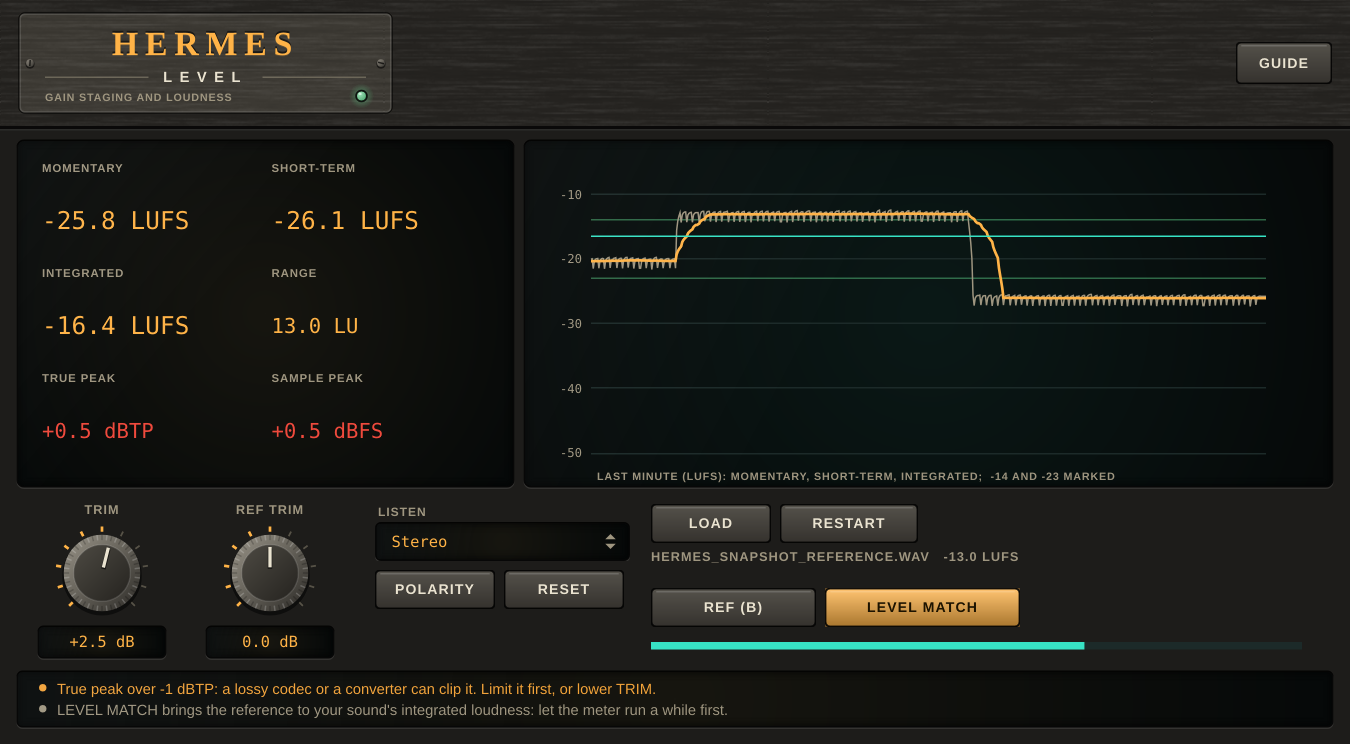
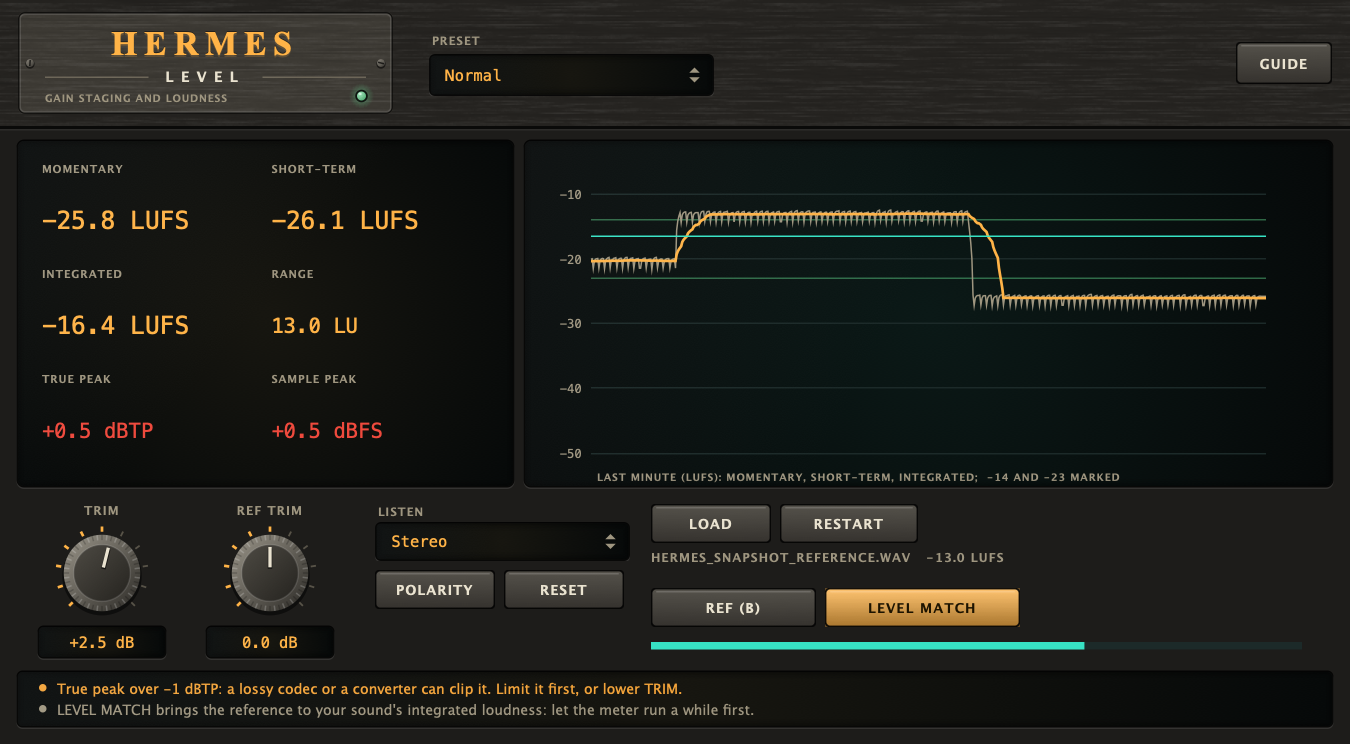
Hermes: eight listening presets
Normal, Mono Check, Side Only, Left Only, Right Only, Swap Check, Reference A/B, Reference As Is; TRIM, POLARITY and REF TRIM are kept. LEVEL MATCH is on by default, so the As Is preset switches it off. README and CLAUDE.md say it builds on macOS and passes auval (by hand).

diff --git a/plugins/hermes/Tests/UiCheck.cpp b/plugins/hermes/Tests/UiCheck.cpp
@@ -143,5 +143,51 @@ int main()
     }
     wav.deleteFile();
 
+    // Presets: each applies, has a name and a one-line purpose, the chosen one is kept with the session, and the box is in the header.
+    {
+        HermesProcessor q;
+        q.setPlayConfigDetails (2, 2, 48000.0, 512);
+        q.prepareToPlay (48000.0, 512);
+        bool all = q.getNumPrograms() == (int) presets().size() && q.getNumPrograms() >= 6;
+        for (int i = 0; i < q.getNumPrograms(); ++i)
+        {
+            q.setCurrentProgram (i);
+            const auto len = std::strlen (presets()[(size_t) i].purpose);
+            all = all && q.getProgramName (i).isNotEmpty() && q.getCurrentProgram() == i && len > 20 && len <= 140;
+        }
+        check (all, fmt ("all %d presets apply, have a name and a one-line purpose", q.getNumPrograms()));
+        const auto indexOf = [&] (const char* name)
+        {
+            for (int i = 0; i < q.getNumPrograms(); ++i)
+                if (q.getProgramName (i) == name)
+                    return i;
+            check (false, std::string ("a preset called ") + name);
+            return 0;
+        };
+        const auto raw = [&] (const juce::String& pid) { return q.apvts.getRawParameterValue (pid)->load(); };
+        setValue (q.apvts, id::trim, 3.0f);
+        q.setCurrentProgram (indexOf ("Mono Check"));
+        check ((int) raw (id::listen) == 1 && std::fabs (raw (id::trim) - 3.0f) < 0.01f, "Mono Check listens to the mono sum, and TRIM is kept");
+        q.setCurrentProgram (indexOf ("Reference A/B"));
+        check ((int) raw (id::listen) == 0 && raw (id::reference) > 0.5f && raw (id::levelMatch) > 0.5f, "Reference A/B: the reference on and level matched, and LISTEN back on Stereo");
+        q.setCurrentProgram (0);
+        check ((int) raw (id::listen) == 0 && raw (id::reference) < 0.5f && raw (id::levelMatch) > 0.5f && std::fabs (raw (id::trim) - 3.0f) < 0.01f, "Normal: Stereo, the reference off, LEVEL MATCH back on (its default), TRIM kept");
+        q.setCurrentProgram (indexOf ("Reference As Is"));
+        check (raw (id::reference) > 0.5f && raw (id::levelMatch) < 0.5f, "Reference As Is: the reference at its own level (LEVEL MATCH off)");
+        const int chosen = indexOf ("Side Only");
+        q.setCurrentProgram (chosen);
+        check ((int) raw (id::listen) == 4, "Side Only listens to the sides");
+        juce::MemoryBlock saved;
+        q.getStateInformation (saved);
+        HermesProcessor other;
+        other.setStateInformation (saved.getData(), (int) saved.getSize());
+        check (other.getCurrentProgram() == chosen, "the chosen preset is saved with the session");
+        std::unique_ptr<juce::AudioProcessorEditor> holder (q.createEditor());
+        auto& editor = ui::innerOf<HermesEditor> (*holder);
+        editor.setVisible (true);
+        check (editor.presetBox.getNumItems() == q.getNumPrograms() && editor.presetBox.getSelectedId() == chosen + 1, "the editor's preset box lists the presets and shows the current one");
+        check (editor.presetBox.getRight() < editor.getWidth() && ! editor.presetBox.getBounds().intersects (editor.guideButton.getBounds()), "the preset box fits the header beside the GUIDE button");
+    }
+
     return test::finish ("HermesUiCheck");
 }

diff --git a/plugins/hermes/Source/PluginEditor.cpp b/plugins/hermes/Source/PluginEditor.cpp
@@ -31,6 +31,7 @@ HermesEditor::HermesEditor (HermesProcessor& p)
       polarity (p.apvts, id::polarity, "POLARITY", "Inverts both channels. It sounds the same alone and different against other tracks."),
       reference (p.apvts, id::reference, "REF (B)", "Hear the reference instead of your sound (A). The switch is a short crossfade, and the reference plays on while you listen to A."),
       levelMatch (p.apvts, id::levelMatch, "LEVEL MATCH", "Brings the reference to the integrated loudness of your sound, so you compare the tone and not the level. Let the meter run first: until it has read a few seconds there is nothing to match."),
+      presetBox (p, presets(), "LISTEN and the reference are set; TRIM, POLARITY and REF TRIM are kept."),
       proc (p)
 {
     setLookAndFeel (&look);
@@ -50,7 +51,7 @@ HermesEditor::HermesEditor (HermesProcessor& p)
     };
     restartButton.onClick = [this] { proc.engine.restartReference(); };
     resetButton.onClick = [this] { proc.engine.resetMeters(); };
-    for (auto* c : std::initializer_list<juce::Component*> { &trim, &referenceTrim, &listen, &polarity, &reference, &levelMatch, &loadButton, &restartButton, &resetButton, &guideButton })
+    for (auto* c : std::initializer_list<juce::Component*> { &trim, &referenceTrim, &listen, &polarity, &reference, &levelMatch, &loadButton, &restartButton, &resetButton, &presetBox, &guideButton })
         addAndMakeVisible (*c);
     startTimerHz (kTimerHz);
     setSize (kWidth, headerHeight + 10 + displayHeight + 8 + cellHeight + 8 + ui::kNoteStripHeight + 12);
@@ -70,6 +71,10 @@ void HermesEditor::resized()
     auto header = bounds.removeFromTop (headerHeight).withTrimmedTop (8).withTrimmedBottom (8);
     nameplate = header.removeFromLeft (250);
     guideButton.setBounds (header.removeFromRight (64).withSizeKeepingCentre (64, 28));
+    header.removeFromLeft (24);
+    auto presetRow = header.withTrimmedTop (28).withHeight (28);
+    presetLabel = { presetRow.getX() + 2, presetRow.getY() - 15, 120, 12 };
+    presetBox.setBounds (presetRow.removeFromLeft (190));
 
     bounds.removeFromTop (10);
     auto display = bounds.removeFromTop (displayHeight);
@@ -121,6 +126,7 @@ void HermesEditor::paint (juce::Graphics& g)
     g.fillAll (colours::background);
     hw::drawHeaderPlate (g, getLocalBounds().removeFromTop (headerHeight).toFloat());
     hw::drawNameplate (g, nameplate, gui::kProjectWord, gui::kPluginWord, "Gain staging and loudness", momentary > gui::kNothing, 25.0f);
+    hw::drawLabel (g, "Preset", presetLabel, juce::Justification::left, colours::dim, 9.0f);
     hw::drawLabel (g, "Listen", listenLabel, juce::Justification::left, colours::dim, 9.0f);
     ui::drawNoteStrip (g, noteStrip, adviceFor (adviceInput()));
 
@@ -222,5 +228,6 @@ void HermesEditor::timerCallback()
     momentaryHistory.back() = momentary;
     shortTermHistory.back() = shortTerm;
     ++ticks;
+    presetBox.sync();
     repaint();
 }

diff --git a/plugins/hermes/Source/Presets.h b/plugins/hermes/Source/Presets.h
@@ -1,0 +1,34 @@
+// SPDX-License-Identifier: AGPL-3.0-or-later
+// Copyright (C) 2026 The Pantheon authors
+
+#pragma once
+
+#include "Parameters.h"
+#include <pantheon/ui/Presets.h>
+
+// Listening checks and the reference, ready to switch to. A preset sets LISTEN, REF and LEVEL MATCH; TRIM, POLARITY and REF TRIM are kept (they are the level of your
+// sound, not what you listen to). The meters always read the whole sound. LISTEN and REF are saved with the session: choose Normal before you bounce.
+namespace hermes
+{
+inline const std::vector<ui::Preset>& presets()
+{
+    // LISTEN is a choice: 0 Stereo, 1 Mono, 2 Left, 3 Right, 4 Side, 5 Swap.
+    static const std::vector<ui::Preset> list
+    {
+        { "Normal", {}, "Your sound as it is: LISTEN on Stereo, the reference off, LEVEL MATCH on. Choose it before you bounce." },
+        { "Mono Check", { { id::listen, 1.0f } },
+          "What a mono speaker, a phone or a club system plays. A lead or a bass that fades here has a phase problem. The meters read the whole sound." },
+        { "Side Only", { { id::listen, 4.0f } },
+          "Only what differs between the channels: reverb, widening, stereo effects. If it is loud, the mix is wide or partly out of phase." },
+        { "Left Only", { { id::listen, 2.0f } }, "The left channel in both ears: what is hard-panned, and whether the two channels are alike." },
+        { "Right Only", { { id::listen, 3.0f } }, "The right channel in both ears: what is hard-panned, and whether the two channels are alike." },
+        { "Swap Check", { { id::listen, 5.0f } }, "Left and right exchanged: a mix that sounds wrong swapped leans to one side. Nothing else changes." },
+        { "Reference A/B", { { id::reference, 1.0f }, { id::levelMatch, 1.0f } },
+          "Hears the loaded reference instead of your sound, at your sound's loudness, so you compare the tone and not the level. LOAD a track first." },
+        { "Reference As Is", { { id::reference, 1.0f }, { id::levelMatch, 0.0f } }, "Hears the loaded reference at its own level (REF TRIM adds to it). Louder usually sounds better: compare with care." },
+    };
+    return list;
+}
+
+inline bool keepsParameter (const juce::String& pid) { return pid == id::trim || pid == id::polarity || pid == id::referenceTrim; }
+} // namespace hermes

diff --git a/plugins/hermes/Source/PluginProcessor.h b/plugins/hermes/Source/PluginProcessor.h
@@ -4,6 +4,7 @@
 #pragma once
 
 #include "Parameters.h"
+#include "Presets.h"
 #include <juce_audio_formats/juce_audio_formats.h>
 #include <juce_audio_processors/juce_audio_processors.h>
 
@@ -26,10 +27,10 @@ public:
     bool producesMidi() const override { return false; }
     double getTailLengthSeconds() const override { return 0.0; }
 
-    int getNumPrograms() override { return 1; }
-    int getCurrentProgram() override { return 0; }
-    void setCurrentProgram (int) override {}
-    const juce::String getProgramName (int) override { return "Default"; }
+    int getNumPrograms() override { return programs.count(); }
+    int getCurrentProgram() override { return programs.current(); }
+    void setCurrentProgram (int index) override { programs.set (index); }
+    const juce::String getProgramName (int index) override { return programs.name (index); }
     void changeProgramName (int, const juce::String&) override {}
 
     void getStateInformation (juce::MemoryBlock&) override;
@@ -37,6 +38,7 @@ public:
 
     hermes::Engine engine;
     juce::AudioProcessorValueTreeState apvts;
+    ui::Programs programs { apvts, hermes::presets(), hermes::keepsParameter }; // after apvts
 
     // On the message thread. Decodes the whole file (at most kMaxReferenceMinutes), brings it to the session's sample rate, measures its loudness and hands it to the engine.
     // Returns an empty string on success, else why not.

diff --git a/plugins/hermes/Source/PluginEditor.h b/plugins/hermes/Source/PluginEditor.h
@@ -26,6 +26,7 @@ public:
     ui::Choice listen;
     ui::Toggle polarity, reference, levelMatch;
     juce::TextButton loadButton { "LOAD" }, restartButton { "RESTART" }, resetButton { "RESET" };
+    ui::PresetBox presetBox;
     ui::GuideButton guideButton { hermes::guideTitle(), hermes::guideText() };
     juce::TextButton& guide() noexcept { return guideButton; }
     std::vector<ui::Note> notes() const { return hermes::adviceFor (adviceInput()); } // what the strip under the controls says, for the checks
@@ -41,7 +42,7 @@ private:
     HardwareLookAndFeel look;
     juce::TooltipWindow tooltips { this, 600 };
     std::unique_ptr<juce::FileChooser> chooser;
-    juce::Rectangle<int> nameplate, readouts, graph, listenLabel, referenceArea, noteStrip;
+    juce::Rectangle<int> nameplate, presetLabel, readouts, graph, listenLabel, referenceArea, noteStrip;
     std::array<float, kHistory> momentaryHistory, shortTermHistory;
     float momentary = -200.0f, shortTerm = -200.0f, integrated = -200.0f, range = 0.0f, truePeak = -200.0f, samplePeak = -200.0f, position = 0.0f;
     int ticks = 0;

diff --git a/plugins/hermes/Source/PluginProcessor.cpp b/plugins/hermes/Source/PluginProcessor.cpp
@@ -54,6 +54,7 @@ void HermesProcessor::processBlock (juce::AudioBuffer<float>& buffer, juce::Midi
 
 void HermesProcessor::getStateInformation (juce::MemoryBlock& dest)
 {
+    programs.saveTo (apvts.state);
     auto state = apvts.copyState();
     state.setProperty ("refPath", referencePath, nullptr);
     if (auto xml = state.createXml())
@@ -68,6 +69,7 @@ void HermesProcessor::setStateInformation (const void* data, int size)
             auto tree = juce::ValueTree::fromXml (*xml);
             const auto path = tree.getProperty ("refPath").toString();
             apvts.replaceState (tree);
+            programs.loadFrom (apvts.state);
             if (path.isNotEmpty() && path != referencePath && juce::File (path).existsAsFile())
                 juce::MessageManager::callAsync ([weak = juce::WeakReference<HermesProcessor> (this), path] { if (weak != nullptr) weak->loadReference (juce::File (path)); });
         }

diff --git a/plugins/hermes/CLAUDE.md b/plugins/hermes/CLAUDE.md
@@ -12,7 +12,7 @@ cmake --build build --target HermesUiCheck && ./build/HermesUiCheck_artefacts/Re
 cmake --build build --target HermesSnapshot && ./build/HermesSnapshot_artefacts/Release/HermesSnapshot docs/screenshot.png
 ```
 
-- Building the plugin targets does **not** install them (`HERMES_INSTALL_AFTER_BUILD`, off by default).
+- Building the plugin targets does **not** install them (`HERMES_INSTALL_AFTER_BUILD`, off by default; a build folder configured with it ON does: check the cache). `scripts/build.sh hermes` is the way to build and check (see the repository's CLAUDE.md).
 - `HermesTests`, `UiCheck` and `Snapshot` are `EXCLUDE_FROM_ALL`; build them by name. `Source/DSP` has no JUCE in it, so the DSP tests also compile with
   `g++ -std=c++20 -O2 -I../../shared/dsp/include -ISource -ITests Tests/Tests.cpp` (a quick loop); run them also with `-O3 -march=native` and with `-O3 -ffast-math`, each on its own.
 - Definition of done for a DSP change: `HermesTests` passes **and** the numbers the README quotes still match its output.
@@ -24,6 +24,7 @@ cmake --build build --target HermesSnapshot && ./build/HermesSnapshot_artefacts/
 Source/DSP/Loudness.h  no GUI, no JUCE: K-weighting for any rate, LoudnessMeter (momentary, short-term, integrated, range from fixed histograms)
 Source/DSP/Engine.h    the trim, the listening modes, the meters, the reference (Reference, the A/B crossfade, the level match); covered by Tests/Tests.cpp
 ../../shared/dsp/      TruePeak.h (`pdsp::TruePeakReader`: the 8x, 64-tap reader; shared with Aegis, so run AegisTests too when you change it)
+Source/Presets.h       the presets (settings, names, one-line purposes); the mechanism is `shared/ui/.../Presets.h`
 Source/Advice.h        the notes of the strip under the controls and the GUIDE text; plain C++
 Source/Parameters.h    parameter layout, readParams()                       <- the single source of truth for parameters
 Source/Plugin*.{h,cpp}, Source/UI/   JUCE wrapper (it also decodes the reference file) and editor (the look is `shared/ui`)
@@ -55,6 +56,9 @@ is a flag the audio thread takes (`restart`), never a write to `position` from a
 `prepareToPlay` loads it again if the sample rate changed.
 
 **Real time.** `Engine::process` allocates and locks nothing (the histograms are fixed arrays). **Bad samples:** NaN and infinity are replaced by 0 on the way in.
+
+**Presets** are `ui::Preset`s in `Source/Presets.h` (the settings as real values, a name, a one-line purpose of at most 140 characters); the processor's `ui::Programs` applies them (every parameter that the plugin's `keepsParameter` does not claim goes back to its default first, so a preset does not inherit the last one) and keeps the chosen index in the session's state
+(`program`); the editor's `ui::PresetBox` lists them and `sync()`s with the host. A new parameter needs thinking about in each preset: it goes back to its default unless the preset lists it. UiCheck pins that every preset applies, what one specific preset sets, what is kept, and that the box fits the header.
 
 **Parameters.** Ids (`hermes::id`) are stored in sessions and automation: never rename or remove one. All are `ParameterID` version 1; a new one needs a higher version, an entry in `readParams()` and a place in the editor.
 The order of `listenNames` is the order of `Listen`.

diff --git a/plugins/hermes/README.md b/plugins/hermes/README.md
@@ -16,6 +16,7 @@ It changes nothing but the level and what you listen to.
 | **Listen** | *Stereo* (as it is), *Mono* (`(L + R) / 2` in both: what a mono speaker plays), *Left* and *Right* (one channel in both), *Side* (`(L - R) / 2` in both: what differs between the channels), *Swap*. A check: the meters still read the whole sound. |
 | **Meters** | **Momentary** (400 ms) and **short-term** (3 s) loudness in LUFS; **integrated** loudness (gated, since RESET); **range** in LU; the **true peak** in dBTP and the sample peak in dBFS; and a graph of the last minute. |
 | **Reference** | **LOAD** a track (WAV, AIFF, FLAC, OGG, MP3 where the system can read it; at most 10 minutes, kept in memory), **REF (B)** to hear it instead of your sound (A) with a 20 ms crossfade, **LEVEL MATCH** to bring it to the integrated loudness of your sound, **REF TRIM** (+-12 dB) to add to that, **RESTART**. It loops, and plays on while you listen to A. The file's path is kept in the session. |
+| **Presets** | Eight listening setups (Normal, Mono Check, Side Only, Left Only, Right Only, Swap Check, Reference A/B, Reference As Is). A preset sets LISTEN, REF and LEVEL MATCH; TRIM, POLARITY and REF TRIM are kept. LISTEN and REF are saved with the session: choose Normal before a bounce. |
 
 ## How it works
 
@@ -49,7 +50,7 @@ It changes nothing but the level and what you listen to.
 - **LISTEN and REF are parameters and are saved with the session**: set LISTEN back to Stereo and REF off before you bounce (a note reminds you).
 - **A reference is kept whole in memory** (at most 10 minutes; about 230 MB at 48 kHz). It is brought to the sample rate the session had when it was loaded; if the session's rate changes it is made again from the file.
 - **It reads the file again from its path** when a session is opened: if the file has moved, the session opens without a reference.
-- It has not been built on macOS or run through `auval`, and it has no `HostCheck` (see "Not yet in line" in the repository's [CLAUDE.md](../../CLAUDE.md)).
+- It builds on macOS (VST3 and AU, run by hand on 2026-11-13) and `auval -v` passes for the AU; it is not in a macOS CI job, and it has no `HostCheck` (see "Not yet in line" in the repository's [CLAUDE.md](../../CLAUDE.md)).
 
 ## Building
 
